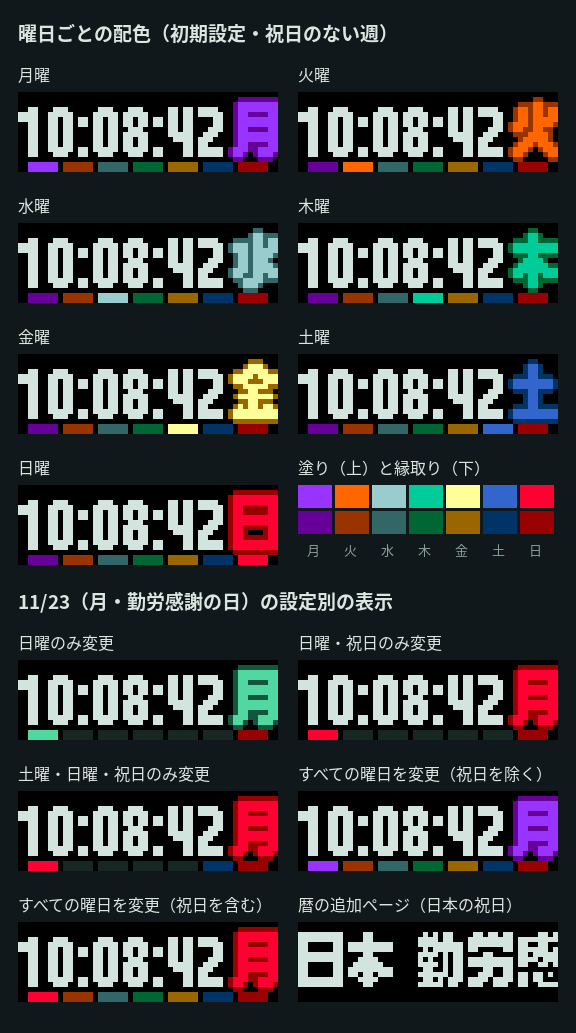
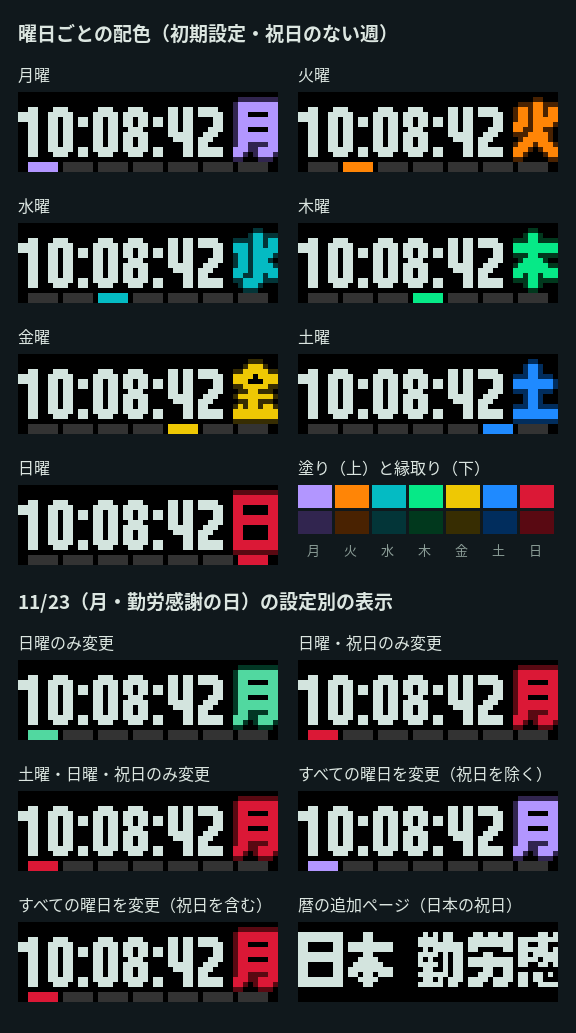
Document the revised weekday palette that focuses on today
Weekday kanji keep their per-day hues but use LED-friendly fills, a
faint outline only around the outside of each glyph, and a one-dot gap
before the seconds. Only today's segment of the weekday bar is coloured;
the other six stay grey.

The documentation leads the implementation: Codex implements the same
values from build/doc-previews/review/weekday-palette-v2.patch. The
previews were rendered with that patch applied to ee4d25a.

Claude-Session: https://claude.ai/code/session_018GigKWYLbDC7PPDjNryRBu

diff --git a/docs/requirements.md b/docs/requirements.md
@@ -68,19 +68,21 @@ PR通知とPR一覧は同じ小カテゴリ内で扱う。Issue通知とIssue一
 
 ### 曜日配色と祝日
 
-2026-11-28追加。時刻画面の右端の曜日漢字と、下端の曜日帯（月曜始まりの7区画）を曜日ごとの色で描く。曜日漢字は塗りの色で描き、上下左右1ドットを縁取りの色で囲む。曜日帯は今日の区画を塗りの色、ほかの曜日を縁取りの色で示す。
+2026-11-28追加・同日見直し。配色の目的は、今日の曜日に視線を集めることとする。時刻画面の右端の曜日漢字を曜日ごとの塗りの色で描き、字の外側だけを控えめな縁取りの色で囲む。字の内側の隙間は縁取りで埋めず、字の左隣の1列は暗いままにして秒の数字と1ドット離す。下端の曜日帯（月曜始まりの7区画）は今日の区画だけを字と同じ色にし、ほかの6区画は設定にかかわらずグレー（`#333333`）とする。
 
 | 曜日 | 塗り | 縁取り |
 | --- | --- | --- |
-| 月 | `#9933FF` | `#660099` |
-| 火 | `#FF6600` | `#993300` |
-| 水 | `#99CCCC` | `#336666` |
-| 木 | `#00CC99` | `#006633` |
-| 金 | `#FFFF99` | `#996600` |
-| 土 | `#3366CC` | `#003366` |
-| 日 | `#FF0033` | `#990000` |
+| 月 | `#B296FF` | `#31254F` |
+| 火 | `#FF8506` | `#492201` |
+| 水 | `#04BBC3` | `#033538` |
+| 木 | `#06E987` | `#01381D` |
+| 金 | `#EEC804` | `#372D02` |
+| 土 | `#1F8AFF` | `#012D5D` |
+| 日 | `#DB1836` | `#590912` |
 
-色を変える日はWindows設定アプリで次の5つから選ぶ。対象外の曜日は従来の緑（塗り `#51D8A0`・縁取り `#14563D`）で描き、曜日帯では暗い区画のままとする。祝日は日本の祝日とし、祝日を含む設定では実際の曜日より日曜の配色を優先する。
+塗りは、月＝紫・火＝橙・水＝水色・木＝緑・金＝金・土＝青・日＝赤の割り当てを保ったまま、LEDの発光で見分けやすい明るさと彩度に揃える。祝日に使う日曜の赤と火曜の橙、時刻の数字（象牙色 `#D3E4DE`）と金曜・水曜を特に離す。確認例として、OKLabの色差（×100）で、7色のどの組み合わせも一般色覚で15以上、日曜と他の曜日は1型・2型色覚の模擬でも15以上、各色と時刻の数字は15以上とする。縁取りは塗りと同じ色相のごく暗い色とし、字の輪郭を締める程度に留める。
+
+色を変える日はWindows設定アプリで次の5つから選ぶ。色を変えない日の曜日漢字は従来の緑（塗り `#51D8A0`・縁取り `#023724`）で描き、曜日帯の今日の区画も同じ緑にする。祝日は日本の祝日とし、祝日を含む設定では実際の曜日より日曜の配色を優先する。
 
 | 設定値 `weekdayColoring` | 設定アプリの表示 | 色を変える日 | 確認例：11/23（月・勤労感謝の日）の曜日漢字 |
 | --- | --- | --- | --- |
